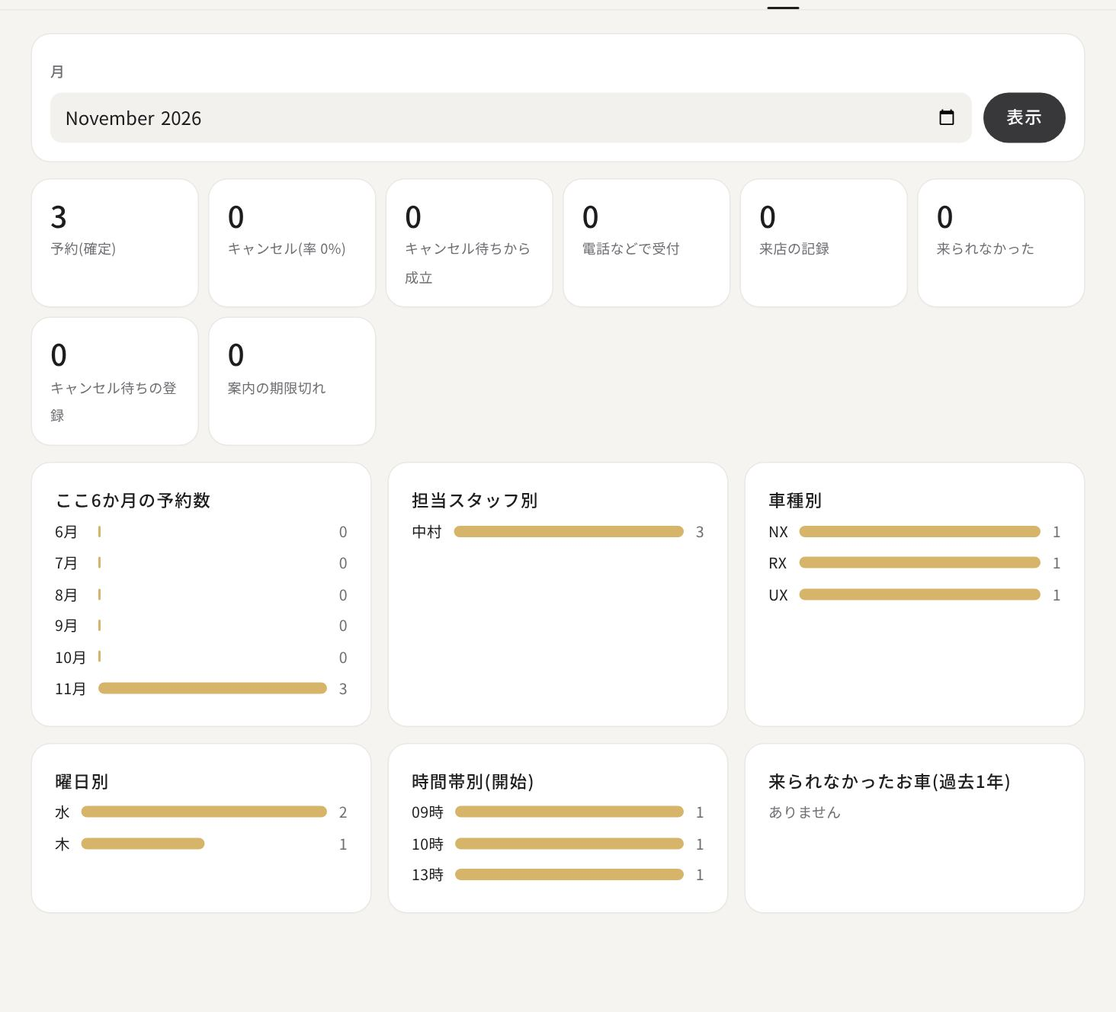
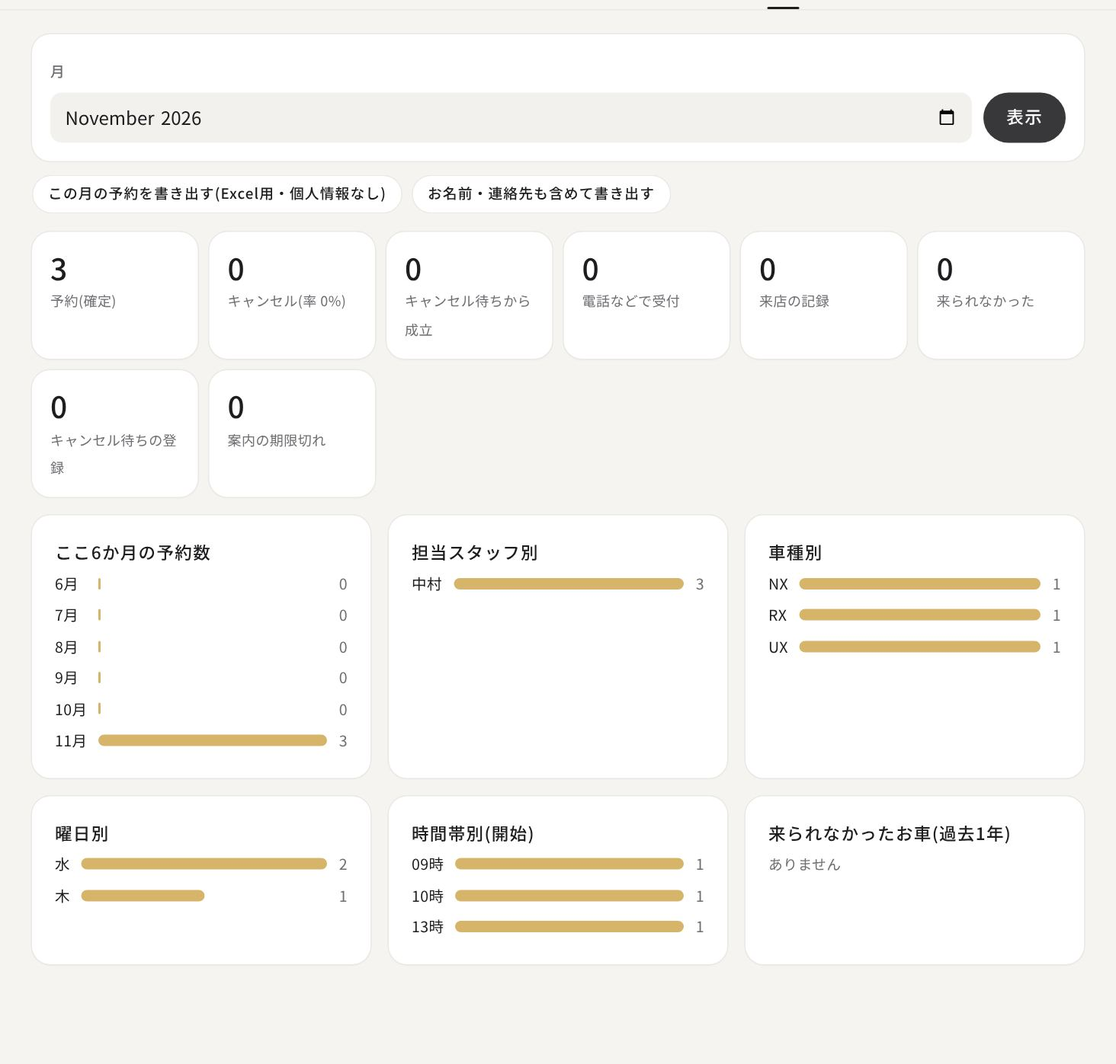
休業日の予約者への連絡、操作ログ、予約の書き出し、週1回の点検メール
- 休業日タブ: 休業日に残った予約を担当ごとに表示し、お客様ごとにお詫びメール・通知の送信を選べる(選ばない方は担当から連絡)
- 操作ログタブ: 誰が・いつ・何をしたかを期間・言葉で検索
- 集計タブ: 月の予約を CSV で書き出し(個人情報なし/あり)
- 無断キャンセルの数える期間を個人情報の保存日数に合わせる
- 説明書に新しい手順と写真を追加

Claude-Session: https://claude.ai/code/session_012tdtVMtKPLFzPU33ZGLdab

diff --git a/admin.html b/admin.html
@@ -281,6 +281,19 @@ details.hcard>summary small{display:block;margin-top:2px;font-size:12.5px;line-h
 .hnote p{margin:0 0 4px}.hnote p:last-child{margin:0}
 .hwhen{margin:0 0 14px;padding:10px 14px;border-radius:12px;background:var(--soft);font-size:13px;line-height:1.7}
 @media print{.head,.savebar,#helpTools,.bgrid,#helpPrint{display:none!important}details.hcard{break-inside:avoid-page;box-shadow:none;border:1px solid #ccc}details.hcard>summary::after{content:""}body{background:#fff}}
+.exrow{display:flex;gap:8px;flex-wrap:wrap;margin-top:12px}
+.logtool{grid-template-columns:auto minmax(0,1fr) auto}
+@media (max-width:700px){.logtool{grid-template-columns:minmax(0,1fr)}}
+.lgrow{display:grid;grid-template-columns:150px 140px minmax(0,1fr);gap:4px 12px;padding:10px 16px;border-bottom:1px solid var(--line);font-size:13.5px}
+.lgrow:last-child{border-bottom:0}.lgrow .t{color:var(--sub);font-variant-numeric:tabular-nums}.lgrow .w{font-weight:600;overflow-wrap:anywhere}.lgrow .d{overflow-wrap:anywhere}
+.lgrow .d small{display:block;color:var(--sub)}
+@media (max-width:700px){.lgrow{grid-template-columns:1fr}}
+.clg{margin:0 0 12px;padding:10px 12px 4px;border-radius:12px;background:var(--soft)}
+.clg-h{display:flex;align-items:center;gap:8px;margin-bottom:6px;font-weight:700;font-size:14px}
+.clr{display:flex;align-items:flex-start;gap:10px;padding:8px 4px;border-top:1px solid var(--line);font-size:13.5px;line-height:1.6;cursor:pointer}
+.clr input,.clg-h input{width:20px;height:20px;flex:none;margin-top:2px;accent-color:var(--ink)}
+.clr,.clg-h{color:var(--ink);font-weight:500}.clr b{font-weight:700}
+.clr small{color:var(--sub);font-weight:400}
 .textlink{padding:4px 0;border:0;background:none;color:var(--ink);font-size:13px;font-weight:600;text-decoration:underline;cursor:pointer}
 .pv-pol{white-space:pre-line;font-size:11.5px;line-height:1.7;min-height:200px}
 .pv-sheet{position:absolute;left:0;right:0;bottom:0;top:60px;padding:14px 16px;border-radius:20px 20px 0 0;background:#f5f4f1;overflow:auto;box-shadow:0 -8px 30px rgba(0,0,0,.15)}
@@ -353,6 +366,7 @@ details.hcard>summary small{display:block;margin-top:2px;font-size:12.5px;line-h
     <button class="tab" data-t="login">ログイン管理</button>
     <button class="tab" data-t="txt">文章・メール</button>
     <button class="tab" data-t="stat">集計</button>
+    <button class="tab" data-t="log">操作ログ</button>
     <button class="tab" data-t="help">説明書</button>
 </nav>
 </div>
@@ -434,7 +448,14 @@ details.hcard>summary small{display:block;margin-top:2px;font-size:12.5px;line-h
 
   <div id="t-stat" class="pane" hidden>
     <div class="card tool"><label for="stYm">月</label><input type="month" id="stYm"><button class="btn" id="stGo">表示</button></div>
+    <div class="exrow"><button class="btn sub sm" id="exAnon">この月の予約を書き出す(Excel用・個人情報なし)</button><button class="btn sub sm" id="exFull">お名前・連絡先も含めて書き出す</button></div>
     <div id="stBody" style="margin-top:16px"></div>
+  </div>
+
+  <div id="t-log" class="pane" hidden>
+    <p class="note hint" style="margin-top:0">管理画面・スタッフ画面で、誰が・いつ・何をしたかの記録です(新しい順)。お客様ご自身の予約・キャンセルは入りません。記録は「個人情報の保存日数」を過ぎると自動で消えます。</p>
+    <div class="card tool logtool"><div class="range"><input type="date" id="lgFrom" aria-label="いつから"><span aria-hidden="true">〜</span><input type="date" id="lgTo" aria-label="いつまで"></div><input type="text" id="lgQ" placeholder="言葉で探す(例: 取り消し、tanaka、保存)" aria-label="言葉で探す"><button class="btn" id="lgGo">表示</button></div>
+    <div id="logList" style="margin-top:14px"></div>
   </div>
 
   <div id="t-help" class="pane" hidden>
@@ -514,6 +535,12 @@ details.hcard>summary small{display:block;margin-top:2px;font-size:12.5px;line-h
 
   <div id="t-hol" class="pane" hidden>
     <div class="warn" id="holWarn" hidden></div>
+    <section class="card pad" id="closedCard" hidden style="margin-bottom:16px;box-shadow:0 0 0 2px #e0891c">
+      <div class="hrow"><h3>休業日に入っている予約 <span class="count-pill" id="clCnt"></span></h3></div>
+      <p class="note" style="margin:2px 0 12px">お休みにした日に、まだ予約が残っています。お客様ごとに、どう連絡するか決めてください。<br>・<b>チェックを入れたお客様</b> … お詫びのメールと通知が届き、予約は取り消されます(メールのない方は通知だけ)。<br>・<b>チェックしないお客様</b> … 担当から直接ご連絡のうえ、「予約」タブで日時の変更か取り消しをしてください。<br>お詫びメールの文は「文章・メール」タブで変えられます。</p>
+      <div id="clList"></div>
+      <div style="display:flex;justify-content:flex-end;margin-top:14px"><button class="btn" id="clSend" disabled>選んだお客様に送って取り消す</button></div>
+    </section>
     <section class="card pad" id="stopCard" hidden style="margin-bottom:16px">
       <h3>予約の受付停止日(翌年度の休日が未定のとき)</h3>
       <p class="note" style="margin:4px 0 12px">この日から先は、お客様画面で予約できなくなります(管理画面・スタッフ画面の電話予約はできます)。お客様のカレンダーの下には、お詫びの文と「受付開始のお知らせを受け取る」ボタンが出ます。<br>休日が決まったら、休業日を入れてから「受付を再開する」を押してください。登録したお客様へ、10分以内にメールと通知が自動で届きます。</p>
@@ -554,7 +581,7 @@ details.hcard>summary small{display:block;margin-top:2px;font-size:12.5px;line-h
 
 <div class="loader" id="loader" role="status" aria-live="polite"><i aria-hidden="true"></i><div>読み込み中…<small>通信に数秒かかることがあります。そのままお待ちください。</small></div></div>
 <script src="texts.js"></script>
-<script src="manual.js?v=20261124-2"></script>
+<script src="manual.js?v=20261125-1"></script>
 <script src="config.js"></script>
 <script src="auth.js"></script>
 <script>
@@ -637,7 +664,9 @@ $('lEmail').addEventListener('keydown', e => { if (e.key === 'Enter') $('pw').fo
 $('logout').onclick = () => { sessionStorage.removeItem('wash_admin_pw'); sessionStorage.removeItem('wash_admin_email'); if (GA.enabled) GA.signOut(); location.reload(); };
 document.querySelectorAll('.tab').forEach(b => b.onclick = () => {
   document.querySelectorAll('.tab').forEach(x => x.classList.toggle('on', x === b));
-  ['res', 'wait', 'hol', 'time', 'set', 'login', 'txt', 'stat', 'help'].forEach(k => $('t-' + k).hidden = k !== b.dataset.t);
+  ['res', 'wait', 'hol', 'time', 'set', 'login', 'txt', 'stat', 'log', 'help'].forEach(k => $('t-' + k).hidden = k !== b.dataset.t);
+  if (b.dataset.t === 'log' && !$('logList').innerHTML) loadLog().catch(e => { $('logList').innerHTML = '<p class="warn">' + esc(e.message) + '</p>'; });
+  if (b.dataset.t === 'hol') loadClosed();
   if (b.dataset.t === 'help') ensureG().catch(() => {}).then(drawHelp);
   if (b.dataset.t === 'wait') loadWait().catch(e => alert(e.message));
   if (['hol', 'time', 'set', 'login', 'txt'].includes(b.dataset.t)) ensureG().then(drawAll).catch(e => alert(e.message));
@@ -766,7 +795,7 @@ async function loadStats() {
   const hours = Object.keys(d.byHour).sort();
   $('stBody').innerHTML = `<div class="stgrid">${box(d.total, '予約(確定)')}${box(d.cancel, 'キャンセル(率 ' + pct(d.cancel, d.total + d.cancel) + ')')}${box(d.fromWait, 'キャンセル待ちから成立')}${box(d.phone, '電話などで受付')}${box(d.visited, '来店の記録')}${box(d.noShow, '来られなかった')}${box(d.waits, 'キャンセル待ちの登録')}${box(d.expired, '案内の期限切れ')}</div>`
     + `<div class="st2">${card('ここ6か月の予約数', bars(trend, Object.keys(trend)))}${card('担当スタッフ別', bars(d.byStaff))}${card('車種別', bars(d.byModel))}${card('曜日別', bars(d.byWd, ['月', '火', '水', '木', '金', '土', '日']))}${card('時間帯別(開始)', bars(d.byHour, hours))}`
-    + card('来られなかったお車(過去1年)', d.noShows.length ? `<div class="bars">${d.noShows.map(n => `<span>${esc(n.plate)}<br><small class="note">${esc(n.name)} ・ 最後 ${dJa(n.last)}</small></span><i style="width:${Math.min(100, n.count * 20)}%;background:#c4412d"></i><em>${n.count}回</em>`).join('')}</div>` + (d.noShowLimit ? `<p class="note">${d.noShowLimit}回になると、お客様画面から予約できなくなります(「設定」の「無断キャンセルの上限」)。記録を直すと解除されます。</p>` : '<p class="note">「設定」の「無断キャンセルの上限」を入れると、回数の多いお車は画面から予約できなくなります。</p>') : '<p class="note" style="margin:0">ありません</p>') + '</div>';
+    + card('来られなかったお車(過去' + (d.noShowDays && d.noShowDays < 365 ? d.noShowDays + '日' : '1年') + ')', d.noShows.length ? `<div class="bars">${d.noShows.map(n => `<span>${esc(n.plate)}<br><small class="note">${esc(n.name)} ・ 最後 ${dJa(n.last)}</small></span><i style="width:${Math.min(100, n.count * 20)}%;background:#c4412d"></i><em>${n.count}回</em>`).join('')}</div>` + (d.noShowLimit ? `<p class="note">${d.noShowLimit}回になると、お客様画面から予約できなくなります(「設定」の「無断キャンセルの上限」)。記録を直すと解除されます。</p>` : '<p class="note">「設定」の「無断キャンセルの上限」を入れると、回数の多いお車は画面から予約できなくなります。</p>') : '<p class="note" style="margin:0">ありません</p>') + '</div>';
 }
 $('stGo').onclick = busy($('stGo'), loadStats);
 $('resGo').onclick = busy($('resGo'), loadRes);
@@ -1304,6 +1333,7 @@ const MAILS = [
   ['空き案内', '空きのご案内', 'キャンセル待ちの方に空きが出たとき。詐欺メール対策のためリンクは入れず、予約サイトを開いて選んでもらう案内にしてください', ['氏名', '日時', '期限', 'お車', 'ナンバー', '担当', '店名']],
   ['リマインド', '前日のお知らせ', '「設定」の「リマインド時刻」を過ぎたころ、翌日にご予約のあるお客様へ(予約してから3時間以内の方には送りません)', ['氏名', '日時', '予約番号', 'お車', 'ナンバー', '担当', '店名']],
   ['変更', '日時の変更', 'お客様・管理画面でご予約の日時を変えたとき', ['氏名', '日時', '変更前', '予約番号', 'お車', 'ナンバー', '担当', '店名']],
+  ['休業連絡', '臨時休業のお知らせ(休業日の予約者へ)', '「休業日」タブの「休業日に入っている予約」で、チェックを入れたお客様へ送るとき(予約は取り消されます)', ['氏名', '日時', '予約番号', 'お車', 'ナンバー', '担当', '店名']],
   ['受付待ち', '受付停止中のお詫び(登録の控え)', '受付停止中に「受付開始のお知らせを受け取る」を押したお客様へ、すぐに届きます', ['氏名', '停止日', 'ナンバー', '店名']],
   ['受付開始', '受付開始のお知らせ', '「休業日」タブで受付を再開したとき(または停止日を先に延ばしたとき)、「受付開始のお知らせを受け取る」を押したお客様へ。通知も届きます', ['氏名', '停止日', '店名']],
   ['署名', 'すべてのメールの最後', 'どのメールにも最後に付きます(空欄で付けない)', ['問い合わせ先', '店名']]
@@ -1340,6 +1370,59 @@ function holMonths() {
   const cur = G.today.slice(0, 7);
   return [...set].filter(m => m >= cur).sort();
 }
+/* ---------- 休業日に入っている予約(お客様への連絡) ---------- */
+let closedList = null;
+async function loadClosed(afterSave) {
+  let r; try { r = await api('adminClosedRes'); } catch (e) { $('closedCard').hidden = true; return; } // 古いサーバー
+  const before = closedList ? closedList.length : 0; closedList = r.list; drawClosed();
+  if (afterSave && closedList.length > before) alert('お休みにした日に、ご予約が ' + closedList.length + '件 あります。\n画面の上の「休業日に入っている予約」から、お客様への連絡方法を選んでください。');
+}
+function drawClosed() {
+  const L = closedList || []; $('closedCard').hidden = !L.length; if (!L.length) return;
+  $('clCnt').textContent = L.length + '件';
+  const groups = {}; L.forEach(r => { const k = r.staff ? (r.store ? r.store + ' ' : '') + r.staff : '担当なし(電話予約など)'; (groups[k] = groups[k] || []).push(r); });
+  $('clList').innerHTML = Object.keys(groups).map((k, gi) => `<div class="clg"><label class="clg-h"><input type="checkbox" data-cg="${gi}">${esc(k)} <span class="note" style="font-weight:400">${groups[k].length}件・まとめて選ぶ</span></label>`
+    + groups[k].map(r => `<label class="clr"><input type="checkbox" data-cl="${esc(r.id)}" data-g="${gi}"><span><b>${esc(dJa(r.date))} ${esc(r.start)}〜</b> ${esc(r.name)} 様 ・ ${esc(r.model)} ${esc(r.plate || '')}${r.hasMail ? '' : ' <span class="tag w">メールなし</span>'}<br><small>${esc(r.phone || '電話番号なし')}${r.memo ? ' ・ メモ: ' + esc(r.memo) : ''} ・ No.${esc(r.no)}</small></span></label>`).join('') + '</div>').join('');
+  const upd = () => { const n = $('clList').querySelectorAll('[data-cl]:checked').length; $('clSend').disabled = !n; $('clSend').textContent = n ? `選んだ ${n}人に送って取り消す` : '選んだお客様に送って取り消す';
+    $('clList').querySelectorAll('[data-cg]').forEach(g => { const all = [...$('clList').querySelectorAll(`[data-g="${g.dataset.cg}"]`)]; g.checked = all.every(x => x.checked); g.indeterminate = !g.checked && all.some(x => x.checked); }); };
+  $('clList').querySelectorAll('[data-cg]').forEach(g => g.onchange = () => { $('clList').querySelectorAll(`[data-g="${g.dataset.cg}"]`).forEach(x => x.checked = g.checked); upd(); });
+  $('clList').querySelectorAll('[data-cl]').forEach(x => x.onchange = upd); upd();
+}
+$('clSend').onclick = busy($('clSend'), async () => {
+  const ids = [...$('clList').querySelectorAll('[data-cl]:checked')].map(x => x.dataset.cl);
+  if (!ids.length) return;
+  if (!confirm(ids.length + '人のお客様へ、臨時休業のお詫び(メール・通知)を送り、ご予約を取り消します。\n送ったあとは元に戻せません。よろしいですか?')) return;
+  const r = await api('adminClosedNotify', { ids });
+  alert('送りました。\nメール: ' + r.sent + '人' + (r.noMail ? '\nメールアドレスのない方(通知のみ): ' + r.noMail + '人。念のためお電話でもご連絡ください。' : '') + (r.skipped ? '\nすでに変更・取り消し済みのため送らなかった方: ' + r.skipped + '人' : ''));
+  await loadClosed();
+});
+
+/* ---------- 操作ログ ---------- */
+const ACT_JA = { adminSave: '設定・休業日などの保存', adminReserve: '電話予約(管理画面)', adminChange: '日時の変更(管理画面)', adminCancel: '取り消し(管理画面)', adminResend: '確認メールの再送', adminMark: '来店の記録(管理画面)', adminPush: 'お知らせの通知', adminWaitStop: 'キャンセル待ちの削除', adminBackup: '控えの作成', adminClosedNotify: '休業日の予約者へ連絡', adminExport: '予約の書き出し', deskReserve: '電話予約(スタッフ画面)', deskChange: '日時の変更(スタッフ画面)', deskCancel: '取り消し(スタッフ画面)', staffMark: '来店の記録(スタッフ画面)' };
+async function loadLog() {
+  $('logList').innerHTML = '<p class="empty">読み込み中…</p>';
+  let d; try { d = await api('adminLog', { from: $('lgFrom').value, to: $('lgTo').value, q: $('lgQ').value.trim() }); } catch (e) { throw new Error(/不明な操作/.test(e.message) ? 'サーバー(Code.gs)の更新が必要です' : e.message); }
+  const who = w => String(w || '').replace(/^スタッフ:/, 'スタッフ ').replace('(パスワード)', '管理者パスワード');
+  $('logList').innerHTML = d.list.length ? `<p class="count">${d.total}件${d.total > d.list.length ? '(新しい ' + d.list.length + '件を表示)' : ''}</p><div class="card">` + d.list.map(r => `<div class="lgrow"><span class="t">${esc(r.t.slice(0, 16))}</span><span class="w">${esc(who(r.who))}</span><span class="d">${esc(ACT_JA[r.act] || r.act)}${r.detail ? `<small>${esc(r.detail)}</small>` : ''}</span></div>`).join('') + '</div>'
+    : '<p class="empty">記録が見つかりませんでした。</p>';
+}
+$('lgGo').onclick = busy($('lgGo'), loadLog);
+$('lgQ').addEventListener('keydown', e => { if (e.key === 'Enter') $('lgGo').click(); });
+
+/* ---------- 予約の書き出し(CSV) ---------- */
+async function exportCsv(personal) {
+  if (!$('stYm').value) $('stYm').value = (G && G.today || new Date().toISOString()).slice(0, 7);
+  if (personal && !confirm('お客様のお名前・電話番号・メールアドレス・ナンバーを含めて書き出します。\nファイルは会社のパソコンだけに保存し、使い終わったら削除してください。\n(書き出したことは操作ログに残ります)')) return;
+  let d; try { d = await api('adminExport', { ym: $('stYm').value, personal: personal ? 1 : 0 }); } catch (e) { throw new Error(/不明な操作/.test(e.message) ? 'サーバー(Code.gs)の更新が必要です' : e.message); }
+  if (!d.rows.length) return alert('この月の予約はありません');
+  const cell = v => { let t = String(v == null ? '' : v); if (/^[=+\-@]/.test(t)) t = "'" + t; return /[",\r\n]/.test(t) ? '"' + t.replace(/"/g, '""') + '"' : t; };
+  const csv = '\ufeff' + [d.head].concat(d.rows).map(r => r.map(cell).join(',')).join('\r\n');
+  const a = document.createElement('a'); a.href = URL.createObjectURL(new Blob([csv], { type: 'text/csv' })); a.download = 'wash_' + d.ym + (personal ? '_personal' : '') + '.csv'; // 日本語のファイル名は、ブラウザによって「download」になるため英字
+  document.body.appendChild(a); a.click(); setTimeout(() => { URL.revokeObjectURL(a.href); a.remove(); }, 1000);
+}
+$('exAnon').onclick = busy($('exAnon'), () => exportCsv(false));
+$('exFull').onclick = busy($('exFull'), () => exportCsv(true));
+
 function drawStop() {
   const s0 = sv('受付停止日'); $('stopCard').hidden = !s0; if (!s0) return;
   const v = String(s0.v || ''), n = G.prepCount || 0;
@@ -1413,7 +1496,7 @@ function saveHolSoon() { clearTimeout(ht); ht = setTimeout(() => saveHol().catch
 async function saveHol() {
   clearTimeout(ht);
   await api('adminSave', { holidays: G.holidays, confirmed: G.confirmed });
-  drawHol(); dot();
+  drawHol(); dot(); loadClosed(true);
 }
 
 /* 設定・文章の保存 */

diff --git a/manual.js b/manual.js
@@ -1,7 +1,7 @@
 /* 管理画面「説明書」の中身。
    1件 = { id, cat(分類), title(見出し), when(こんなとき), steps: [文 または {t: 文, img: 'manual/の写真名', cap: 写真の説明}], notes: [注意] }
    文の中の **ここ** は太字になります。写真は manual フォルダに入っています。 */
-window.WASH_MANUAL_VER = '20261124-2'; // 写真を撮り直したら変える(古い写真が残らないように)
+window.WASH_MANUAL_VER = '20261125-1'; // 写真を撮り直したら変える(古い写真が残らないように)
 window.WASH_MANUAL = [
   /* ===================== はじめに ===================== */
   {
@@ -24,7 +24,7 @@ window.WASH_MANUAL = [
     steps: [
       { t: '管理画面のアドレスを開くと、ログインの画面が出ます。**メールアドレスとパスワード**(または管理者パスワード)を入れて、「ログイン」を押します。', img: 'a-login', cap: '① パスワードを入れる ② ログインを押す' },
       { t: '入ると、上に **タブ**(見出しのボタン)が並びます。押すと画面が切り替わります。', img: 'a-tabs', cap: '上のタブ' },
-      '**予約** … 予約の一覧を見る。電話で受けた予約を入れる。日時の変更・取り消し。\n**キャンセル待ち** … キャンセル待ちに登録している人の一覧。\n**休業日** … お休みの日を入れる。翌年度の休日が未定のときに予約を止める。\n**時間帯** … 予約を受け付ける時刻を選ぶ。\n**設定** … 台数・ルール・店名・担当スタッフ・車種・お知らせなど。\n**ログイン管理** … 管理者とスタッフのID・パスワード。\n**文章・メール** … お客様画面の文章とメールの文章を変える。\n**集計** … 月ごとの予約数など。\n**説明書** … この説明書と、引き継ぎ・バックアップ。',
+      '**予約** … 予約の一覧を見る。電話で受けた予約を入れる。日時の変更・取り消し。\n**キャンセル待ち** … キャンセル待ちに登録している人の一覧。\n**休業日** … お休みの日を入れる。翌年度の休日が未定のときに予約を止める。\n**時間帯** … 予約を受け付ける時刻を選ぶ。\n**設定** … 台数・ルール・店名・担当スタッフ・車種・お知らせなど。\n**ログイン管理** … 管理者とスタッフのID・パスワード。\n**文章・メール** … お客様画面の文章とメールの文章を変える。\n**集計** … 月ごとの予約数など。Excel 用の書き出し。\n**操作ログ** … 誰が・いつ・何をしたかの記録。\n**説明書** … この説明書と、引き継ぎ・バックアップ。',
       'スマホで見ているときは、タブを **左右に指でずらす** と、隠れているタブが出てきます。',
       '使い終わったら、右上の「ログアウト」を押してください(会社の共用パソコンでは必ず)。'
     ],
@@ -179,9 +179,21 @@ window.WASH_MANUAL = [
     ],
     notes: [
       '今月から3か月先までに **未確定の月があると、毎日9時ごろ管理者メールにお知らせ** が届きます(確定すると止まります)。',
-      'すでに予約が入っている日をお休みにしても、その予約は消えません。お客様に連絡して、変更か取り消しをお願いしてください。',
+      'すでに予約が入っている日をお休みにすると、「休業日」タブの一番上に「休業日に入っている予約」が出ます。お客様への連絡のしかたは「臨時休業の日に予約が入っていた」を見てください。',
       '臨時休業をお客様に知らせたいときは「臨時のお知らせを出す」も使ってください。'
     ]
+  },
+  {
+    id: 'closed', cat: '営業日・時間', title: '臨時休業の日に予約が入っていた(お客様への連絡)',
+    when: '機械の故障や大雨などで、予約が入っている日を急にお休みにしたとき。',
+    steps: [
+      '「**休業日**」タブで、その日を押してお休みにします(「休業日を入れる」と同じ手順)。予約が入っていると「ご予約が○件あります」と出ます。',
+      { t: '画面の一番上に「**休業日に入っている予約**」が、**担当ごと** に並びます。お客様ごとに、連絡のしかたを決めます。\n・**チェックを入れたお客様** … システムから **お詫びのメールと通知** が届き、予約は取り消されます。\n・**チェックしないお客様** … **担当から直接お電話** などでご連絡します。\n担当の名前の横のチェックで、その担当のお客様をまとめて選べます。', img: 'a-closed', cap: '休業日に入っている予約(担当ごと)' },
+      'チェックを入れたら、下の「**選んだ ○人に送って取り消す**」を押し、確認の窓で「OK」を押します。',
+      '**チェックしなかったお客様** は、担当からご連絡のうえ、「予約」タブでその予約の「変更」(別の日へ)か「取消」を押してください。すべて終わると、この欄は消えます。',
+      '「メールなし」と出ているお客様(電話予約など)には、メールが届きません。必ずお電話でご連絡ください。'
+    ],
+    notes: ['送ったあとは元に戻せません。', 'お詫びメールの文は「文章・メール」タブの「臨時休業のお知らせ(休業日の予約者へ)」で変えられます。', '休業日に予約が残っていると、毎週水曜の点検メールでもお知らせします。']
   },
   {
     id: 'stop', cat: '営業日・時間', title: '翌年度の休日が未定のとき(予約を一時止める・再開する)',
@@ -271,12 +283,24 @@ window.WASH_MANUAL = [
     notes: ['「■」で始まる行は見出しになります。']
   },
   {
-    id: 'stat', cat: 'お知らせ・文章', title: '月の集計を見る',
-    when: '月の予約数や来店数を知りたいとき。',
+    id: 'stat', cat: 'お知らせ・文章', title: '月の集計を見る・Excel に書き出す',
+    when: '月の予約数や来店数を知りたいとき。上司への報告用に一覧がほしいとき。',
     steps: [
-      { t: '上のタブの「**集計**」を押し、月を選んで「表示」を押します。予約数・キャンセル・来店・担当スタッフ別などが出ます。', img: 'a-stat', cap: '集計のタブ' }
+      { t: '上のタブの「**集計**」を押し、月を選んで「表示」を押します。予約数・キャンセル・来店・担当スタッフ別などが出ます。', img: 'a-stat', cap: '集計のタブ' },
+      '一覧がほしいときは、「**この月の予約を書き出す(Excel用・個人情報なし)**」を押します。「wash_2026-11.csv」のようなファイルがダウンロードされ、Excel でそのまま開けます(日付・時間・車種・担当・来店など。お名前などは入りません)。',
+      'お客様のお名前や連絡先も必要なときだけ、「**お名前・連絡先も含めて書き出す**」を押します。'
     ],
-    notes: ['集計には、お客様のお名前などは出ません。']
+    notes: ['お名前・連絡先を含むファイルは、会社のパソコンだけに保存し、使い終わったら削除してください。メールで社外に送らないでください。', '書き出したことは「操作ログ」に残ります。']
+  },
+  {
+    id: 'log', cat: 'お知らせ・文章', title: '誰が何をしたか確かめる(操作ログ)',
+    when: '「この予約を消したのは誰?」「設定がいつ変わった?」を知りたいとき。',
+    steps: [
+      { t: '上のタブの「**操作ログ**」を押すと、管理画面・スタッフ画面で行った操作が、新しい順に並びます(日時・誰が・何をしたか)。', img: 'a-log', cap: '操作ログのタブ' },
+      '期間を選んだり、言葉(例: 取り消し、tanaka、保存)を入れたりして「表示」を押すと、絞り込めます。',
+      '「管理者パスワード」と出ているのは、メールアドレスを入れずに管理者パスワードだけで入った人の操作です。一人ひとりのアカウントで入ってもらうと、誰の操作か分かるようになります。'
+    ],
+    notes: ['お客様ご自身の予約・キャンセルは、ここには出ません(「予約」タブで確認できます)。', '記録は「個人情報の保存日数」を過ぎると自動で消えます。']
   },
 
   /* ===================== 引き継ぎ・バックアップ ===================== */
@@ -360,6 +384,7 @@ window.WASH_MANUAL = [
       '**10分おき**: キャンセル待ちの方への空きのご案内 / ご案内の期限切れの処理 / 前日のお知らせメール / 受付開始のお知らせ',
       '**毎日 夜中3時ごろ**: 1年を過ぎた個人情報の削除 / 古い操作ログの削除 / スプレッドシートの控え(バックアップ)',
       '**毎日 朝9時ごろ**: 休業日が未確定の月があれば、管理者メールにお知らせ',
+      '**毎週水曜 朝9時ごろ**: 「週1回の点検」メール(控え・メールの残り・エラー・未確定の休業日・休業日に残っている予約・予約数のまとめ)。「確認してほしいことがあります」と書いてあったら、中身を見て対応してください。',
       'これらは Apps Script の「トリガー」(時計のマーク)で動いています。止まっているようなら、「引き継ぎの手順」の【3】の setupTrigger を実行し直してください。'
     ],
     notes: []
